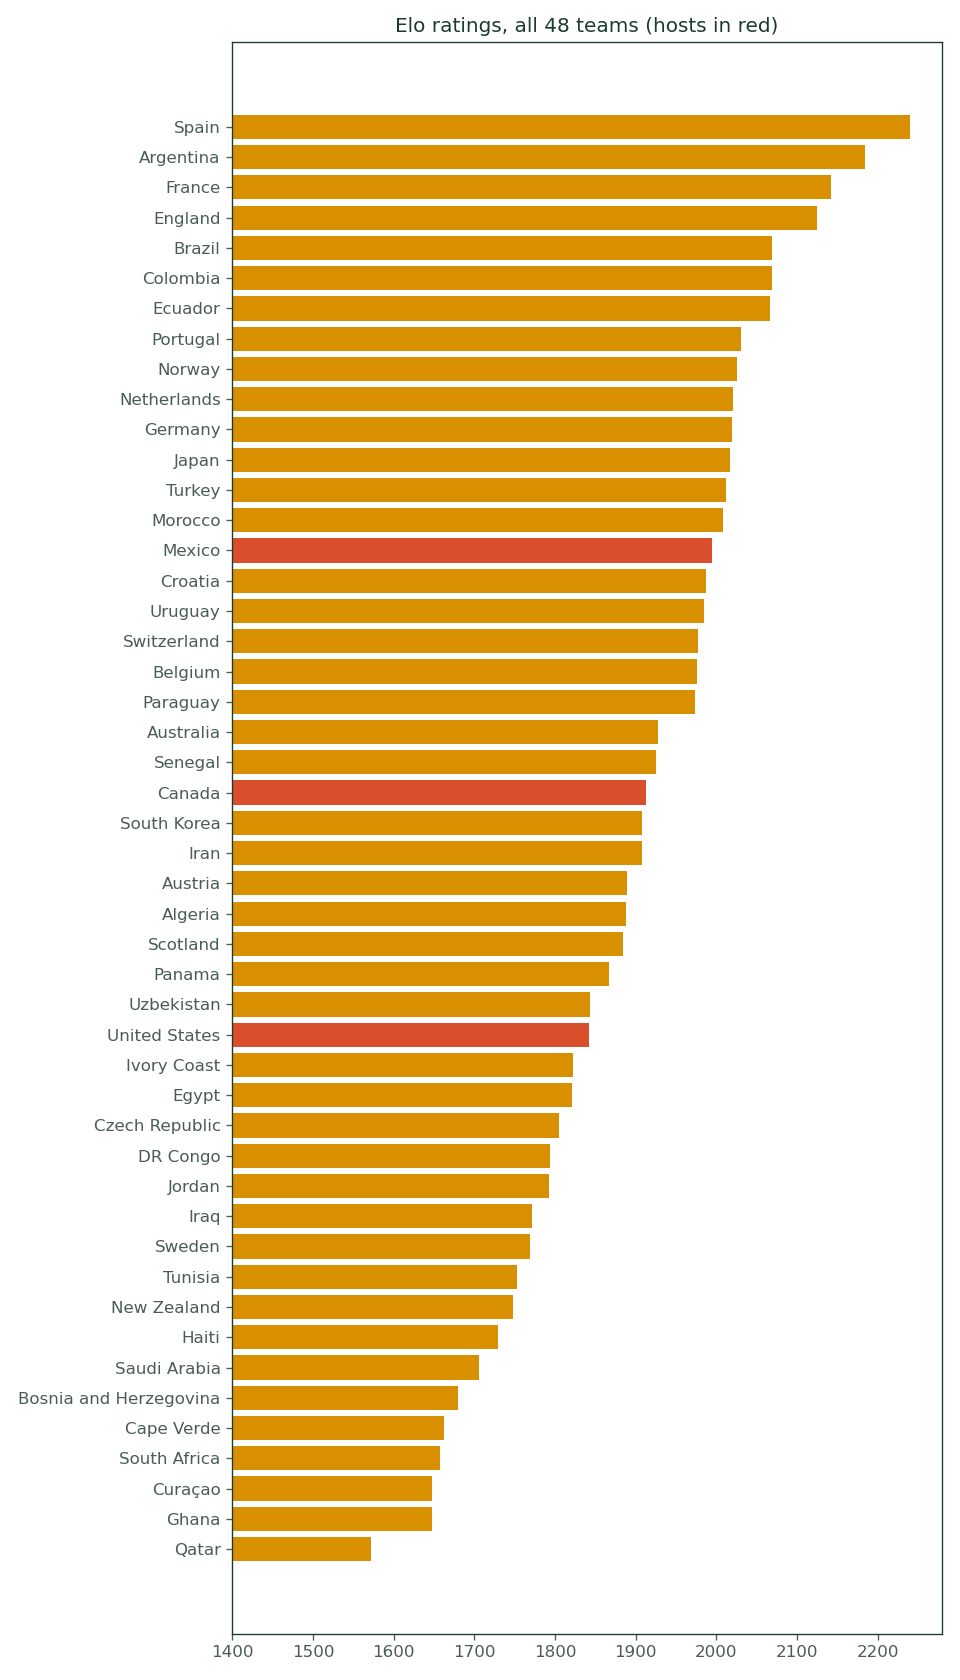
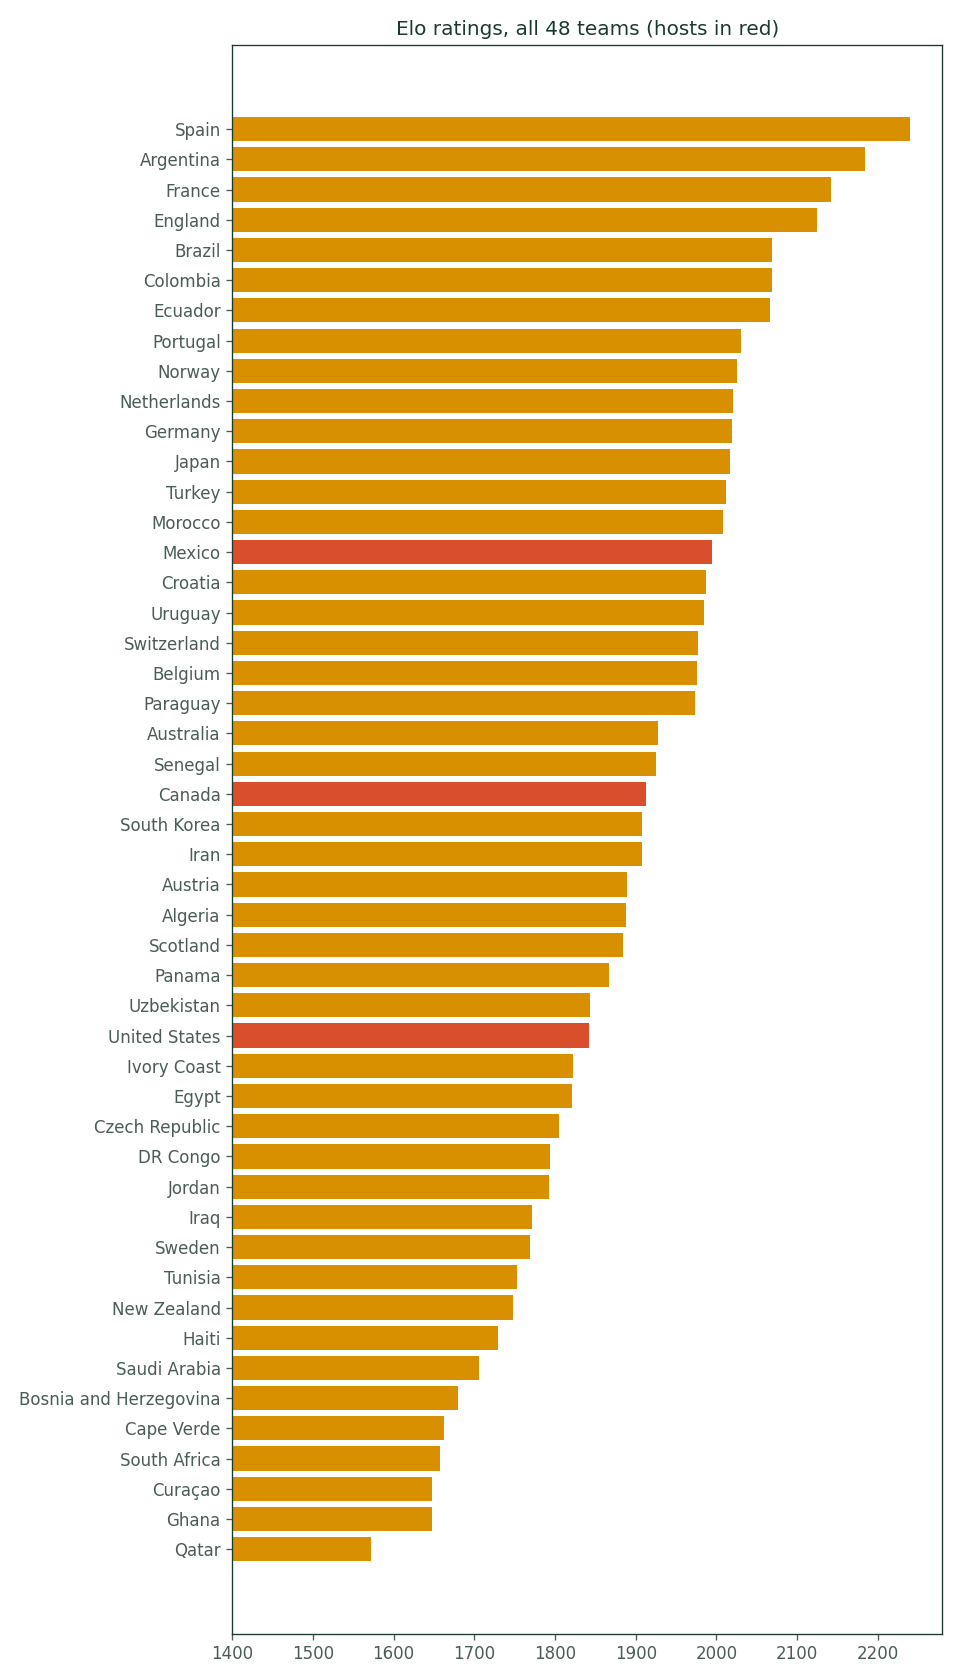
Add files via upload

diff --git a/index.html b/index.html
@@ -72,6 +72,8 @@ summary{cursor:pointer;font-weight:700;font-size:13px;color:var(--green)}
 summary:hover{color:var(--goldD)}
 details table{margin-top:10px}
 table{border-collapse:collapse;width:100%;font-size:13px}
+#sched{font-size:12px}
+#sched th{position:sticky;top:0;background:var(--bg);z-index:2;box-shadow:0 1px 0 var(--line)}
 th,td{padding:7px 10px;text-align:left;border-bottom:1px solid var(--line)}
 th{color:var(--mut);font-size:10.5px;letter-spacing:.09em;text-transform:uppercase;font-weight:700}
 tr:nth-child(even) td{background:#FAFBF8}
@@ -111,10 +113,10 @@ img.fig{max-width:100%;border-radius:12px;border:1px solid var(--line);margin:10
 <header><div class="wrap"><div class="kick">UB Analytics · est. 2014 · back for the 48-team era</div><h1>World Cup <span class="y">2026</span>, one matchday at a time.</h1>
 <p class="sub">One matchday at a time, the reasoning one click deep, every verdict on the record. <a href='legacy.html' style='color:var(--gold)'>Our third World Cup since 2014.</a></p>
 <nav><a href="index.html">Matchday</a><a href="schedule.html">Schedule</a><a href="methods.html">Under the hood</a><a href="legacy.html">Since 2014</a><a href="leaderboard.html">Leaderboard</a><a href="about.html">About us</a><a href="index.html#subscribe">Subscribe</a></nav>
-</div></header><main class="wrap"><div class="chips"><span class="chip"><b>4/9</b>picks correct</span><span class="chip"><b>0.638</b>running Brier</span><span class="chip"><b>-4%</b><abbr title="Brier Skill Score: improvement over a naive forecaster that always predicts historical base rates (49/23/28). Positive = the model adds real information.">skill vs naive</abbr></span><span class="chip"><b>13/16</b>2014 knockouts</span></div>
+</div></header><main class="wrap"><div class="chips"><span class="chip"><b>4/10</b>picks correct</span><span class="chip"><b>0.651</b>running Brier</span><span class="chip"><b>-1%</b><abbr title="Brier Skill Score: improvement over a naive forecaster that always predicts historical base rates (49/23/28). Positive = the model adds real information.">skill vs naive</abbr></span><span class="chip"><b>13/16</b>2014 knockouts</span></div>
 <h2>Matchday: 2026-06-14</h2>
-<p class="note">Predictions lock before kickoff. Last build: 2026-06-14 22:34 UTC.</p>
-<div class="card"><div class="meta"><span class="tag g">Group E</span><span class="tag">2026-06-14</span><span class="tag">Houston, United States</span></div><div class="duel"><div class="teams"><img class="flag" src="https://flagcdn.com/w28/de.png" srcset="https://flagcdn.com/w56/de.png 2x" width="28" alt="" loading="lazy">Germany<span class="vs">vs</span><img class="flag" src="https://flagcdn.com/w28/cw.png" srcset="https://flagcdn.com/w56/cw.png 2x" width="28" alt="" loading="lazy">Curaçao</div><div class="bignum"><b>76%</b><span>Germany by 2</span></div></div><div class="pa"><div><div class="lbl">Predicted</div><div class="val">Germany by 2</div><div class="det">confidence 76%</div></div><div class="arrow">→</div><div><div class="lbl">Actual</div><div class="val">Germany by 6</div><div class="det">7–1</div><span class="badge hit">CORRECT · Brier 0.09</span></div></div><div class="crowd"><div class="csig market"><span class="ctag">Betting market</span><b>Germany</b> at 69%<div class="cprobs">Germany 69% / draw 19% / Curaçao 12%</div><div class="cres hit">✔ Brier 0.14 (model 0.09)</div></div><div class="csig reddit"><span class="ctag">Reddit crowd</span><b>Germany</b> at 72%<div class="cprobs">Germany 72% / draw 16% / Curaçao 12%</div><div class="cres hit">✔ Brier 0.12 (model 0.09)</div></div><div class="csig reddit_positive"><span class="ctag">Reddit positive ↑</span><b>Germany</b> at 82%<div class="cprobs">Germany 82% / draw 9% / Curaçao 9%</div><div class="cres hit">✔ Brier 0.05 (model 0.09)</div></div><div class="csig reddit_negative"><span class="ctag">Reddit negative ↓</span><b>Germany</b> at 68%<div class="cprobs">Germany 68% / draw 15% / Curaçao 18%</div><div class="cres hit">✔ Brier 0.16 (model 0.09)</div></div></div><div class="bar"><i style="width:75.8%;background:var(--gold)"></i><i style="width:17.1%;background:var(--sage)"></i><i style="width:7.1%;background:var(--red)"></i></div><div class="legend"><img class="flag" src="https://flagcdn.com/w24/de.png" srcset="https://flagcdn.com/w48/de.png 2x" width="24" alt="" loading="lazy"> <b>Germany</b> 76% · draw 17% · <img class="flag" src="https://flagcdn.com/w24/cw.png" srcset="https://flagcdn.com/w48/cw.png 2x" width="24" alt="" loading="lazy"> <b>Curaçao</b> 7%</div><details><summary>How the model got here</summary><table>
+<p class="note">Predictions lock before kickoff. Last build: 2026-06-14 22:59 UTC.</p>
+<div class="card"><div class="meta"><span class="tag g">Group E</span><span class="tag">2026-06-14</span><span class="tag">Houston, United States</span></div><div class="duel"><div class="teams"><img class="flag" src="https://flagcdn.com/w28/de.png" srcset="https://flagcdn.com/w56/de.png 2x" width="28" alt="" loading="lazy">Germany<span class="vs">vs</span><img class="flag" src="https://flagcdn.com/w28/cw.png" srcset="https://flagcdn.com/w56/cw.png 2x" width="28" alt="" loading="lazy">Curaçao</div><div class="bignum"><b>76%</b><span>Germany by 2</span></div></div><div style="font-size:10px;font-weight:700;letter-spacing:.1em;text-transform:uppercase;color:var(--green);margin-top:6px">Champion model prediction</div><div class="pa"><div><div class="lbl">Predicted</div><div class="val">Germany by 2</div><div class="det">confidence 76%</div></div><div class="arrow">→</div><div><div class="lbl">Actual</div><div class="val">Germany by 6</div><div class="det">7–1</div><span class="badge hit">CORRECT · Brier 0.09</span></div></div><div class="crowd"><div class="csig market"><span class="ctag">LSS (Ujjal)</span><b>Germany by 3</b><div class="cprobs">Germany 92% / draw 6% / Curaçao 2%</div><div class="cres hit">✔ Brier 0.01</div></div><div class="csig market"><span class="ctag">Market</span><b>Germany by 1</b><div class="cprobs">Germany 69% / draw 19% / Curaçao 12%</div><div class="cres hit">✔ Brier 0.14</div></div><div class="csig reddit"><span class="ctag">Reddit crowd</span><b>Germany by 1</b><div class="cprobs">Germany 72% / draw 16% / Curaçao 12%</div><div class="cres hit">✔ Brier 0.12</div></div></div><div class="bar"><i style="width:75.8%;background:var(--gold)"></i><i style="width:17.1%;background:var(--sage)"></i><i style="width:7.1%;background:var(--red)"></i></div><div class="legend"><img class="flag" src="https://flagcdn.com/w24/de.png" srcset="https://flagcdn.com/w48/de.png 2x" width="24" alt="" loading="lazy"> <b>Germany</b> 76% · draw 17% · <img class="flag" src="https://flagcdn.com/w24/cw.png" srcset="https://flagcdn.com/w48/cw.png 2x" width="24" alt="" loading="lazy"> <b>Curaçao</b> 7%</div><details><summary>How the model got here</summary><table>
 <tr><th></th>
 <th class="num"><abbr title="Strength rating updated after every match since 1872. Beating a stronger side gains more points; the world average is ~1500 and elite teams sit above 2000. Hosts get +100 for true home games.">Elo</abbr></th>
 <th class="num"><abbr title="Attack rate: average goals SCORED per game over the team's last 25 internationals.">Attack</abbr></th>
@@ -138,7 +140,7 @@ EloDiff +372, AttDiff +0.44, DefDiff +0.04, FormDiff +1.50, HomeFlag 0.</p><p cl
 </table>
 <p class="note" style="margin:8px 0 0">Step 3, goal difference: the Poisson model expects 2.3 vs 0.6 goals,
 so the predicted margin is 2.3 − 0.6 ≈ 2.
-Weights come from each model's Brier score on 2,535 held-out internationals (2024–26); details <a href="methods.html">under the hood</a>.</p></details></div><div class="card"><div class="meta"><span class="tag g">Group E</span><span class="tag">2026-06-14</span><span class="tag">Philadelphia, United States</span></div><div class="duel"><div class="teams"><img class="flag" src="https://flagcdn.com/w28/ci.png" srcset="https://flagcdn.com/w56/ci.png 2x" width="28" alt="" loading="lazy">Ivory Coast<span class="vs">vs</span><img class="flag" src="https://flagcdn.com/w28/ec.png" srcset="https://flagcdn.com/w56/ec.png 2x" width="28" alt="" loading="lazy">Ecuador</div><div class="bignum"><b>61%</b><span>Ecuador by 1</span></div></div><div class="pa"><div><div class="lbl">Predicted</div><div class="val">Ecuador by 1</div><div class="det">confidence 61%</div></div><div class="arrow">→</div><div><div class="lbl">Actual</div><div class="pend">awaiting kickoff</div></div></div><div class="crowd"><div class="csig reddit"><span class="ctag">Reddit crowd</span><b>Ivory Coast</b> at 34%<div class="cprobs">Ivory Coast 34% / draw 33% / Ecuador 33%</div></div><div class="csig reddit_positive"><span class="ctag">Reddit positive ↑</span><b>Ivory Coast</b> at 34%<div class="cprobs">Ivory Coast 34% / draw 33% / Ecuador 33%</div></div><div class="csig reddit_negative"><span class="ctag">Reddit negative ↓</span><b>Ivory Coast</b> at 34%<div class="cprobs">Ivory Coast 34% / draw 33% / Ecuador 33%</div></div><div class="csig market"><span class="ctag">Betting market</span><b>Ecuador</b> at 39%<div class="cprobs">Ivory Coast 28% / draw 33% / Ecuador 39%</div></div></div><div class="bar"><i style="width:16.0%;background:var(--gold)"></i><i style="width:23.4%;background:var(--sage)"></i><i style="width:60.6%;background:var(--red)"></i></div><div class="legend"><img class="flag" src="https://flagcdn.com/w24/ci.png" srcset="https://flagcdn.com/w48/ci.png 2x" width="24" alt="" loading="lazy"> <b>Ivory Coast</b> 16% · draw 23% · <img class="flag" src="https://flagcdn.com/w24/ec.png" srcset="https://flagcdn.com/w48/ec.png 2x" width="24" alt="" loading="lazy"> <b>Ecuador</b> 61%</div><details><summary>How the model got here</summary><table>
+Weights come from each model's Brier score on 2,535 held-out internationals (2024–26); details <a href="methods.html">under the hood</a>.</p></details></div><div class="card"><div class="meta"><span class="tag g">Group E</span><span class="tag">2026-06-14</span><span class="tag">Philadelphia, United States</span></div><div class="duel"><div class="teams"><img class="flag" src="https://flagcdn.com/w28/ci.png" srcset="https://flagcdn.com/w56/ci.png 2x" width="28" alt="" loading="lazy">Ivory Coast<span class="vs">vs</span><img class="flag" src="https://flagcdn.com/w28/ec.png" srcset="https://flagcdn.com/w56/ec.png 2x" width="28" alt="" loading="lazy">Ecuador</div><div class="bignum"><b>61%</b><span>Ecuador by 1</span></div></div><div style="font-size:10px;font-weight:700;letter-spacing:.1em;text-transform:uppercase;color:var(--green);margin-top:6px">Champion model prediction</div><div class="pa"><div><div class="lbl">Predicted</div><div class="val">Ecuador by 1</div><div class="det">confidence 61%</div></div><div class="arrow">→</div><div><div class="lbl">Actual</div><div class="pend">awaiting kickoff</div></div></div><div class="crowd"><div class="csig market"><span class="ctag">LSS (Ujjal)</span><b>Ecuador by 1</b><div class="cprobs">Ivory Coast 22% / draw 37% / Ecuador 41%</div></div><div class="csig market"><span class="ctag">Market</span><b>Ecuador by 1</b><div class="cprobs">Ivory Coast 15% / draw 23% / Ecuador 62%</div></div><div class="csig reddit"><span class="ctag">Reddit crowd</span><b>Ecuador by 1</b><div class="cprobs">Ivory Coast 22% / draw 20% / Ecuador 58%</div></div></div><div class="bar"><i style="width:16.0%;background:var(--gold)"></i><i style="width:23.4%;background:var(--sage)"></i><i style="width:60.6%;background:var(--red)"></i></div><div class="legend"><img class="flag" src="https://flagcdn.com/w24/ci.png" srcset="https://flagcdn.com/w48/ci.png 2x" width="24" alt="" loading="lazy"> <b>Ivory Coast</b> 16% · draw 23% · <img class="flag" src="https://flagcdn.com/w24/ec.png" srcset="https://flagcdn.com/w48/ec.png 2x" width="24" alt="" loading="lazy"> <b>Ecuador</b> 61%</div><details><summary>How the model got here</summary><table>
 <tr><th></th>
 <th class="num"><abbr title="Strength rating updated after every match since 1872. Beating a stronger side gains more points; the world average is ~1500 and elite teams sit above 2000. Hosts get +100 for true home games.">Elo</abbr></th>
 <th class="num"><abbr title="Attack rate: average goals SCORED per game over the team's last 25 internationals.">Attack</abbr></th>
@@ -162,7 +164,7 @@ EloDiff -245, AttDiff +0.68, DefDiff +0.00, FormDiff +0.40, HomeFlag 0.</p><p cl
 </table>
 <p class="note" style="margin:8px 0 0">Step 3, goal difference: the Poisson model expects 0.8 vs 1.8 goals,
 so the predicted margin is 0.8 − 1.8 ≈ 1.
-Weights come from each model's Brier score on 2,535 held-out internationals (2024–26); details <a href="methods.html">under the hood</a>.</p></details></div><div class="card"><div class="meta"><span class="tag g">Group F</span><span class="tag">2026-06-14</span><span class="tag">Arlington, United States</span></div><div class="duel"><div class="teams"><img class="flag" src="https://flagcdn.com/w28/nl.png" srcset="https://flagcdn.com/w56/nl.png 2x" width="28" alt="" loading="lazy">Netherlands<span class="vs">vs</span><img class="flag" src="https://flagcdn.com/w28/jp.png" srcset="https://flagcdn.com/w56/jp.png 2x" width="28" alt="" loading="lazy">Japan</div><div class="bignum"><b>36%</b><span>Japan by 1</span></div></div><div class="pa"><div><div class="lbl">Predicted</div><div class="val">Japan by 1</div><div class="det">confidence 36%</div></div><div class="arrow">→</div><div><div class="lbl">Actual</div><div class="pend">awaiting kickoff</div></div></div><div class="crowd"><div class="csig market"><span class="ctag">Betting market</span><b>Japan</b> at 36%<div class="cprobs">Netherlands 34% / draw 29% / Japan 36%</div></div><div class="csig reddit"><span class="ctag">Reddit crowd</span><b>Netherlands</b> at 34%<div class="cprobs">Netherlands 34% / draw 33% / Japan 33%</div></div><div class="csig reddit_positive"><span class="ctag">Reddit positive ↑</span><b>Netherlands</b> at 34%<div class="cprobs">Netherlands 34% / draw 33% / Japan 33%</div></div><div class="csig reddit_negative"><span class="ctag">Reddit negative ↓</span><b>Netherlands</b> at 34%<div class="cprobs">Netherlands 34% / draw 33% / Japan 33%</div></div></div><div class="bar"><i style="width:34.8%;background:var(--gold)"></i><i style="width:28.8%;background:var(--sage)"></i><i style="width:36.4%;background:var(--red)"></i></div><div class="legend"><img class="flag" src="https://flagcdn.com/w24/nl.png" srcset="https://flagcdn.com/w48/nl.png 2x" width="24" alt="" loading="lazy"> <b>Netherlands</b> 35% · draw 29% · <img class="flag" src="https://flagcdn.com/w24/jp.png" srcset="https://flagcdn.com/w48/jp.png 2x" width="24" alt="" loading="lazy"> <b>Japan</b> 36%</div><details><summary>How the model got here</summary><table>
+Weights come from each model's Brier score on 2,535 held-out internationals (2024–26); details <a href="methods.html">under the hood</a>.</p></details></div><div class="card"><div class="meta"><span class="tag g">Group F</span><span class="tag">2026-06-14</span><span class="tag">Arlington, United States</span></div><div class="duel"><div class="teams"><img class="flag" src="https://flagcdn.com/w28/nl.png" srcset="https://flagcdn.com/w56/nl.png 2x" width="28" alt="" loading="lazy">Netherlands<span class="vs">vs</span><img class="flag" src="https://flagcdn.com/w28/jp.png" srcset="https://flagcdn.com/w56/jp.png 2x" width="28" alt="" loading="lazy">Japan</div><div class="bignum"><b>36%</b><span>Japan by 1</span></div></div><div style="font-size:10px;font-weight:700;letter-spacing:.1em;text-transform:uppercase;color:var(--green);margin-top:6px">Champion model prediction</div><div class="pa"><div><div class="lbl">Predicted</div><div class="val">Japan by 1</div><div class="det">confidence 36%</div></div><div class="arrow">→</div><div><div class="lbl">Actual</div><div class="val">Draw</div><div class="det">2–2</div><span class="badge miss">MISSED · Brier 0.76</span></div></div><div class="crowd"><div class="csig market"><span class="ctag">LSS (Ujjal)</span><b>Japan by 1</b><div class="cprobs">Netherlands 26% / draw 24% / Japan 51%</div><div class="cres miss">✘ Brier 0.91</div></div><div class="csig market"><span class="ctag">Market</span><b>Japan by 1</b><div class="cprobs">Netherlands 34% / draw 29% / Japan 36%</div><div class="cres miss">✘ Brier 0.75</div></div><div class="csig reddit"><span class="ctag">Reddit crowd</span><b>Japan by 1</b><div class="cprobs">Netherlands 33% / draw 27% / Japan 40%</div><div class="cres miss">✘ Brier 0.81</div></div></div><div class="bar"><i style="width:34.8%;background:var(--gold)"></i><i style="width:28.8%;background:var(--sage)"></i><i style="width:36.4%;background:var(--red)"></i></div><div class="legend"><img class="flag" src="https://flagcdn.com/w24/nl.png" srcset="https://flagcdn.com/w48/nl.png 2x" width="24" alt="" loading="lazy"> <b>Netherlands</b> 35% · draw 29% · <img class="flag" src="https://flagcdn.com/w24/jp.png" srcset="https://flagcdn.com/w48/jp.png 2x" width="24" alt="" loading="lazy"> <b>Japan</b> 36%</div><details><summary>How the model got here</summary><table>
 <tr><th></th>
 <th class="num"><abbr title="Strength rating updated after every match since 1872. Beating a stronger side gains more points; the world average is ~1500 and elite teams sit above 2000. Hosts get +100 for true home games.">Elo</abbr></th>
 <th class="num"><abbr title="Attack rate: average goals SCORED per game over the team's last 25 internationals.">Attack</abbr></th>
@@ -186,7 +188,7 @@ EloDiff +4, AttDiff -0.12, DefDiff -0.52, FormDiff +0.10, HomeFlag 0.</p><p clas
 </table>
 <p class="note" style="margin:8px 0 0">Step 3, goal difference: the Poisson model expects 1.2 vs 1.2 goals,
 so the predicted margin is 1.2 − 1.2 ≈ level.
-Weights come from each model's Brier score on 2,535 held-out internationals (2024–26); details <a href="methods.html">under the hood</a>.</p></details></div><div class="card"><div class="meta"><span class="tag g">Group F</span><span class="tag">2026-06-14</span><span class="tag">Guadalupe, Mexico</span></div><div class="duel"><div class="teams"><img class="flag" src="https://flagcdn.com/w28/se.png" srcset="https://flagcdn.com/w56/se.png 2x" width="28" alt="" loading="lazy">Sweden<span class="vs">vs</span><img class="flag" src="https://flagcdn.com/w28/tn.png" srcset="https://flagcdn.com/w56/tn.png 2x" width="28" alt="" loading="lazy">Tunisia</div><div class="bignum"><b>36%</b><span>Sweden by 1</span></div></div><div class="pa"><div><div class="lbl">Predicted</div><div class="val">Sweden by 1</div><div class="det">confidence 36%</div></div><div class="arrow">→</div><div><div class="lbl">Actual</div><div class="pend">awaiting kickoff</div></div></div><div class="crowd"><div class="csig reddit"><span class="ctag">Reddit crowd</span><b>Sweden</b> at 34%<div class="cprobs">Sweden 34% / draw 33% / Tunisia 33%</div></div><div class="csig reddit_positive"><span class="ctag">Reddit positive ↑</span><b>Sweden</b> at 34%<div class="cprobs">Sweden 34% / draw 33% / Tunisia 33%</div></div><div class="csig reddit_negative"><span class="ctag">Reddit negative ↓</span><b>Sweden</b> at 34%<div class="cprobs">Sweden 34% / draw 33% / Tunisia 33%</div></div><div class="csig market"><span class="ctag">Betting market</span><b>Sweden</b> at 50%<div class="cprobs">Sweden 50% / draw 28% / Tunisia 21%</div></div></div><div class="bar"><i style="width:35.8%;background:var(--gold)"></i><i style="width:28.5%;background:var(--sage)"></i><i style="width:35.7%;background:var(--red)"></i></div><div class="legend"><img class="flag" src="https://flagcdn.com/w24/se.png" srcset="https://flagcdn.com/w48/se.png 2x" width="24" alt="" loading="lazy"> <b>Sweden</b> 36% · draw 28% · <img class="flag" src="https://flagcdn.com/w24/tn.png" srcset="https://flagcdn.com/w48/tn.png 2x" width="24" alt="" loading="lazy"> <b>Tunisia</b> 36%</div><details><summary>How the model got here</summary><table>
+Weights come from each model's Brier score on 2,535 held-out internationals (2024–26); details <a href="methods.html">under the hood</a>.</p></details></div><div class="card"><div class="meta"><span class="tag g">Group F</span><span class="tag">2026-06-14</span><span class="tag">Guadalupe, Mexico</span></div><div class="duel"><div class="teams"><img class="flag" src="https://flagcdn.com/w28/se.png" srcset="https://flagcdn.com/w56/se.png 2x" width="28" alt="" loading="lazy">Sweden<span class="vs">vs</span><img class="flag" src="https://flagcdn.com/w28/tn.png" srcset="https://flagcdn.com/w56/tn.png 2x" width="28" alt="" loading="lazy">Tunisia</div><div class="bignum"><b>36%</b><span>Sweden by 1</span></div></div><div style="font-size:10px;font-weight:700;letter-spacing:.1em;text-transform:uppercase;color:var(--green);margin-top:6px">Champion model prediction</div><div class="pa"><div><div class="lbl">Predicted</div><div class="val">Sweden by 1</div><div class="det">confidence 36%</div></div><div class="arrow">→</div><div><div class="lbl">Actual</div><div class="pend">awaiting kickoff</div></div></div><div class="crowd"><div class="csig market"><span class="ctag">LSS (Ujjal)</span><b>Sweden by 1</b><div class="cprobs">Sweden 40% / draw 26% / Tunisia 34%</div></div><div class="csig market"><span class="ctag">Market</span><b>Tunisia by 1</b><div class="cprobs">Sweden 36% / draw 27% / Tunisia 37%</div></div><div class="csig reddit"><span class="ctag">Reddit crowd</span><b>Tunisia by 1</b><div class="cprobs">Sweden 32% / draw 24% / Tunisia 43%</div></div></div><div class="bar"><i style="width:35.8%;background:var(--gold)"></i><i style="width:28.5%;background:var(--sage)"></i><i style="width:35.7%;background:var(--red)"></i></div><div class="legend"><img class="flag" src="https://flagcdn.com/w24/se.png" srcset="https://flagcdn.com/w48/se.png 2x" width="24" alt="" loading="lazy"> <b>Sweden</b> 36% · draw 28% · <img class="flag" src="https://flagcdn.com/w24/tn.png" srcset="https://flagcdn.com/w48/tn.png 2x" width="24" alt="" loading="lazy"> <b>Tunisia</b> 36%</div><details><summary>How the model got here</summary><table>
 <tr><th></th>
 <th class="num"><abbr title="Strength rating updated after every match since 1872. Beating a stronger side gains more points; the world average is ~1500 and elite teams sit above 2000. Hosts get +100 for true home games.">Elo</abbr></th>
 <th class="num"><abbr title="Attack rate: average goals SCORED per game over the team's last 25 internationals.">Attack</abbr></th>
@@ -212,7 +214,7 @@ EloDiff +17, AttDiff +0.36, DefDiff -0.60, FormDiff -0.60, HomeFlag 0.</p><p cla
 so the predicted margin is 1.2 − 1.3 ≈ level.
 Weights come from each model's Brier score on 2,535 held-out internationals (2024–26); details <a href="methods.html">under the hood</a>.</p></details></div>
 <h2>Latest verdicts</h2>
-<div class="verdict hit"><div class="mark">✔ correct · 2026-06-14 · Group E</div><div class="pv">Predicted outcome: <b>Germany wins</b> with goal difference of 2. Confidence score 0.76 (max 1).</div><div class="av">Actual outcome: Germany won by goal difference of 6 (7–1). Brier 0.09.</div></div><div class="verdict miss"><div class="mark">✘ missed · 2026-06-13 · Group B</div><div class="pv">Predicted outcome: <b>Switzerland wins</b> with goal difference of 2. Confidence score 0.79 (max 1).</div><div class="av">Actual outcome: Match drawn (1–1). Brier 1.36.</div></div><div class="verdict miss"><div class="mark">✘ missed · 2026-06-13 · Group C</div><div class="pv">Predicted outcome: <b>Brazil wins</b> with goal difference of 1. Confidence score 0.42 (max 1).</div><div class="av">Actual outcome: Match drawn (1–1). Brier 0.76.</div></div><div class="verdict hit"><div class="mark">✔ correct · 2026-06-13 · Group C</div><div class="pv">Predicted outcome: <b>Scotland wins</b> with goal difference of 1. Confidence score 0.51 (max 1).</div><div class="av">Actual outcome: Scotland won by goal difference of 1 (0–1). Brier 0.36.</div></div><div class="verdict miss"><div class="mark">✘ missed · 2026-06-13 · Group D</div><div class="pv">Predicted outcome: <b>Turkey wins</b> with goal difference of 1. Confidence score 0.39 (max 1).</div><div class="av">Actual outcome: Australia won by goal difference of 2 (2–0). Brier 0.70.</div></div><div class="verdict miss"><div class="mark">✘ missed · 2026-06-12 · Group B</div><div class="pv">Predicted outcome: <b>Canada wins</b> with goal difference of 2. Confidence score 0.75 (max 1).</div><div class="av">Actual outcome: Match drawn (1–1). Brier 1.26.</div></div>
+<div class="verdict miss"><div class="mark">✘ missed · 2026-06-14 · Group F</div><div class="pv">Predicted outcome: <b>Japan wins</b> with goal difference of 1. Confidence score 0.36 (max 1).</div><div class="av">Actual outcome: Match drawn (2–2). Brier 0.76.</div></div><div class="verdict hit"><div class="mark">✔ correct · 2026-06-14 · Group E</div><div class="pv">Predicted outcome: <b>Germany wins</b> with goal difference of 2. Confidence score 0.76 (max 1).</div><div class="av">Actual outcome: Germany won by goal difference of 6 (7–1). Brier 0.09.</div></div><div class="verdict miss"><div class="mark">✘ missed · 2026-06-13 · Group B</div><div class="pv">Predicted outcome: <b>Switzerland wins</b> with goal difference of 2. Confidence score 0.79 (max 1).</div><div class="av">Actual outcome: Match drawn (1–1). Brier 1.36.</div></div><div class="verdict miss"><div class="mark">✘ missed · 2026-06-13 · Group C</div><div class="pv">Predicted outcome: <b>Brazil wins</b> with goal difference of 1. Confidence score 0.42 (max 1).</div><div class="av">Actual outcome: Match drawn (1–1). Brier 0.76.</div></div><div class="verdict hit"><div class="mark">✔ correct · 2026-06-13 · Group C</div><div class="pv">Predicted outcome: <b>Scotland wins</b> with goal difference of 1. Confidence score 0.51 (max 1).</div><div class="av">Actual outcome: Scotland won by goal difference of 1 (0–1). Brier 0.36.</div></div><div class="verdict miss"><div class="mark">✘ missed · 2026-06-13 · Group D</div><div class="pv">Predicted outcome: <b>Turkey wins</b> with goal difference of 1. Confidence score 0.39 (max 1).</div><div class="av">Actual outcome: Australia won by goal difference of 2 (2–0). Brier 0.70.</div></div>
 <p class="note"><a href="schedule.html">Full 72-match outlook and complete scorecard →</a></p>
 <div class="sub-box" id="subscribe"><h2>Every matchday's predictions by email</h2>
 <p class="note">One email per matchday. Unsubscribe anytime.</p>

diff --git a/leaderboard.html b/leaderboard.html
@@ -72,6 +72,8 @@ summary{cursor:pointer;font-weight:700;font-size:13px;color:var(--green)}
 summary:hover{color:var(--goldD)}
 details table{margin-top:10px}
 table{border-collapse:collapse;width:100%;font-size:13px}
+#sched{font-size:12px}
+#sched th{position:sticky;top:0;background:var(--bg);z-index:2;box-shadow:0 1px 0 var(--line)}
 th,td{padding:7px 10px;text-align:left;border-bottom:1px solid var(--line)}
 th{color:var(--mut);font-size:10.5px;letter-spacing:.09em;text-transform:uppercase;font-weight:700}
 tr:nth-child(even) td{background:#FAFBF8}
@@ -117,10 +119,10 @@ img.fig{max-width:100%;border-radius:12px;border:1px solid var(--line);margin:10
 
 <div style="overflow-x:auto"><table>
 <tr><th>Model and method</th><th>Author</th><th class="num">Scored</th><th class="num">Accuracy</th><th class="num">Brier ↓</th><th class="num">Skill</th></tr>
-<tr style="background:#EAF3ED"><td><span style="font-size:10px;font-weight:700;letter-spacing:.08em;text-transform:uppercase;color:var(--green);">Champion</span><br><b>Elo + Poisson ensemble</b><br><span style="font-size:11px;color:var(--mut)">GLM, RF, Poisson scoreline on Elo-difference features</span></td><td>UB Analytics</td><td class="num">9/72</td><td class="num">44%</td><td class="num"><b>0.638</b></td><td class="num">-4%</td></tr><tr style="background:#F5F3E8"><td><span style="font-size:10px;font-weight:700;letter-spacing:.08em;text-transform:uppercase;color:var(--goldD);">Baseline</span><br><b>Naive base-rate forecaster</b><br><span style="font-size:11px;color:var(--mut)">Always predicts 48/23/29 (historical home/draw/away rates)</span></td><td>Benchmark</td><td class="num">9/72</td><td class="num">56%</td><td class="num"><b>0.616</b></td><td class="num">+0%</td></tr><tr style="background:transparent"><td><span style="font-size:10px;font-weight:700;letter-spacing:.08em;text-transform:uppercase;color:var(--mut);">Challenger</span><br><b>Reddit crowd (overall)</b><br><span style="font-size:11px;color:var(--mut)">Pre-match sentiment from r/soccer, r/worldcup; weighted mention counting</span></td><td>Crowd</td><td class="num">9/72</td><td class="num">44%</td><td class="num"><b>0.702</b></td><td class="num">-14%</td></tr><tr style="background:transparent"><td><span style="font-size:10px;font-weight:700;letter-spacing:.08em;text-transform:uppercase;color:var(--mut);">Challenger</span><br><b>Reddit positive sentiment</b><br><span style="font-size:11px;color:var(--mut)">Probability derived from praise, support, and optimistic mentions only; tests whether fan enthusiasm predicts outcomes</span></td><td>Crowd</td><td class="num">9/72</td><td class="num">44%</td><td class="num"><b>0.735</b></td><td class="num">-19%</td></tr><tr style="background:transparent"><td><span style="font-size:10px;font-weight:700;letter-spacing:.08em;text-transform:uppercase;color:var(--mut);">Challenger</span><br><b>Reddit negative sentiment</b><br><span style="font-size:11px;color:var(--mut)">Probability derived from criticism and doubt about the opponent; tests whether negative crowd opinion predicts outcomes better than positive</span></td><td>Crowd</td><td class="num">9/72</td><td class="num">44%</td><td class="num"><b>0.681</b></td><td class="num">-11%</td></tr><tr style="background:transparent"><td><span style="font-size:10px;font-weight:700;letter-spacing:.08em;text-transform:uppercase;color:var(--mut);">Challenger</span><br><b>Betting market consensus</b><br><span style="font-size:11px;color:var(--mut)">Bookmaker odds averaged across providers, overround removed; the academic standard benchmark</span></td><td>Crowd</td><td class="num">9/72</td><td class="num">44%</td><td class="num"><b>0.654</b></td><td class="num">-6%</td></tr><tr style="background:transparent"><td><span style="font-size:10px;font-weight:700;letter-spacing:.08em;text-transform:uppercase;color:var(--mut);">Challenger</span><br><b>Human intuition (B)</b><br><span style="font-size:11px;color:var(--mut)">Domain knowledge and match context, no statistical model</span></td><td>Bhupinder Juneja</td><td class="num">0/72</td><td class="num" colspan="3" style="color:var(--sage);font-style:italic">awaiting predictions</td></tr><tr style="background:transparent"><td><span style="font-size:10px;font-weight:700;letter-spacing:.08em;text-transform:uppercase;color:var(--mut);">Challenger</span><br><b>Latent State-Space v1</b><br><span style="font-size:11px;color:var(--mut)">Dynamic bivariate Poisson, Koopman-Lit (2015) framework</span></td><td>Ujjal Mukherjee</td><td class="num">9/72</td><td class="num">56%</td><td class="num"><b>0.682</b></td><td class="num">-11%</td></tr>
+<tr style="background:#EAF3ED"><td><span style="font-size:10px;font-weight:700;letter-spacing:.08em;text-transform:uppercase;color:var(--green);">Champion</span><br><b>Elo + Poisson ensemble</b><br><span style="font-size:11px;color:var(--mut)">GLM, RF, Poisson scoreline on Elo-difference features</span></td><td>UB Analytics</td><td class="num">10/72</td><td class="num">40%</td><td class="num"><b>0.651</b></td><td class="num">-1%</td></tr><tr style="background:#F5F3E8"><td><span style="font-size:10px;font-weight:700;letter-spacing:.08em;text-transform:uppercase;color:var(--goldD);">Baseline</span><br><b>Naive base-rate forecaster</b><br><span style="font-size:11px;color:var(--mut)">Always predicts 48/23/29 (historical home/draw/away rates)</span></td><td>Benchmark</td><td class="num">10/72</td><td class="num">50%</td><td class="num"><b>0.644</b></td><td class="num">+0%</td></tr><tr style="background:transparent"><td><span style="font-size:10px;font-weight:700;letter-spacing:.08em;text-transform:uppercase;color:var(--mut);">Challenger</span><br><b>Reddit crowd (overall)</b><br><span style="font-size:11px;color:var(--mut)">Pre-match sentiment from r/soccer, r/worldcup; weighted mention counting</span></td><td>Crowd</td><td class="num">10/72</td><td class="num">40%</td><td class="num"><b>0.713</b></td><td class="num">-11%</td></tr><tr style="background:transparent"><td><span style="font-size:10px;font-weight:700;letter-spacing:.08em;text-transform:uppercase;color:var(--mut);">Challenger</span><br><b>Reddit positive sentiment</b><br><span style="font-size:11px;color:var(--mut)">Probability derived from praise, support, and optimistic mentions only; tests whether fan enthusiasm predicts outcomes</span></td><td>Crowd</td><td class="num">10/72</td><td class="num">40%</td><td class="num"><b>0.765</b></td><td class="num">-19%</td></tr><tr style="background:transparent"><td><span style="font-size:10px;font-weight:700;letter-spacing:.08em;text-transform:uppercase;color:var(--mut);">Challenger</span><br><b>Reddit negative sentiment</b><br><span style="font-size:11px;color:var(--mut)">Probability derived from criticism and doubt about the opponent; tests whether negative crowd opinion predicts outcomes better than positive</span></td><td>Crowd</td><td class="num">10/72</td><td class="num">40%</td><td class="num"><b>0.696</b></td><td class="num">-8%</td></tr><tr style="background:transparent"><td><span style="font-size:10px;font-weight:700;letter-spacing:.08em;text-transform:uppercase;color:var(--mut);">Challenger</span><br><b>Betting market consensus</b><br><span style="font-size:11px;color:var(--mut)">Bookmaker odds averaged across providers, overround removed; the academic standard benchmark</span></td><td>Crowd</td><td class="num">10/72</td><td class="num">40%</td><td class="num"><b>0.663</b></td><td class="num">-3%</td></tr><tr style="background:transparent"><td><span style="font-size:10px;font-weight:700;letter-spacing:.08em;text-transform:uppercase;color:var(--mut);">Challenger</span><br><b>Human intuition (B)</b><br><span style="font-size:11px;color:var(--mut)">Domain knowledge and match context, no statistical model</span></td><td>Bhupinder Juneja</td><td class="num">0/72</td><td class="num" colspan="3" style="color:var(--sage);font-style:italic">awaiting predictions</td></tr><tr style="background:transparent"><td><span style="font-size:10px;font-weight:700;letter-spacing:.08em;text-transform:uppercase;color:var(--mut);">Challenger</span><br><b>Latent State-Space v1</b><br><span style="font-size:11px;color:var(--mut)">Dynamic bivariate Poisson, Koopman-Lit (2015) framework</span></td><td>Ujjal Mukherjee</td><td class="num">10/72</td><td class="num">50%</td><td class="num"><b>0.704</b></td><td class="num">-9%</td></tr>
 </table></div>
 
-<p class="note">Scored on 9 of 72 group matches. Brier is the primary metric (lower is better; 0 = clairvoyant, 0.667 = coin flip). Skill measures improvement over the naive base-rate forecaster (positive = the model adds real information). SE of Brier ≈ 0.13: models within ~0.05 of each other are statistically indistinguishable at this sample size. The leaderboard becomes evidence, not entertainment, only as N grows.</p>
+<p class="note">Scored on 10 of 72 group matches. Brier is the primary metric (lower is better; 0 = clairvoyant, 0.667 = coin flip). Skill measures improvement over the naive base-rate forecaster (positive = the model adds real information). SE of Brier ≈ 0.13: models within ~0.05 of each other are statistically indistinguishable at this sample size. The leaderboard becomes evidence, not entertainment, only as N grows.</p>
 
 <h2>The champion-challenger framework</h2>
 <p class="note">In production analytics, a <b>champion</b> is the model currently making decisions; a <b>challenger</b> is any candidate replacement that runs in parallel, scored on the same outcomes, but not yet trusted with decisions. The champion holds its position until a challenger demonstrates statistically significant improvement over a sustained evaluation window, not a lucky streak. This framework is standard practice in credit scoring (OCC Bulletin 2011-12), clinical trials (where it maps onto non-inferiority designs), and recommendation systems (A/B testing). Its core discipline: the challenger must beat the champion on the champion's turf, with the champion's metrics, over the champion's evaluation period. Selection bias (submitting only your best backtest) and survivorship bias (dropping challengers that start poorly) are the two threats the framework exists to prevent.</p>

diff --git a/about.html b/about.html
@@ -72,6 +72,8 @@ summary{cursor:pointer;font-weight:700;font-size:13px;color:var(--green)}
 summary:hover{color:var(--goldD)}
 details table{margin-top:10px}
 table{border-collapse:collapse;width:100%;font-size:13px}
+#sched{font-size:12px}
+#sched th{position:sticky;top:0;background:var(--bg);z-index:2;box-shadow:0 1px 0 var(--line)}
 th,td{padding:7px 10px;text-align:left;border-bottom:1px solid var(--line)}
 th{color:var(--mut);font-size:10.5px;letter-spacing:.09em;text-transform:uppercase;font-weight:700}
 tr:nth-child(even) td{background:#FAFBF8}

diff --git a/legacy.html b/legacy.html
@@ -72,6 +72,8 @@ summary{cursor:pointer;font-weight:700;font-size:13px;color:var(--green)}
 summary:hover{color:var(--goldD)}
 details table{margin-top:10px}
 table{border-collapse:collapse;width:100%;font-size:13px}
+#sched{font-size:12px}
+#sched th{position:sticky;top:0;background:var(--bg);z-index:2;box-shadow:0 1px 0 var(--line)}
 th,td{padding:7px 10px;text-align:left;border-bottom:1px solid var(--line)}
 th{color:var(--mut);font-size:10.5px;letter-spacing:.09em;text-transform:uppercase;font-weight:700}
 tr:nth-child(even) td{background:#FAFBF8}

diff --git a/methods.html b/methods.html
@@ -72,6 +72,8 @@ summary{cursor:pointer;font-weight:700;font-size:13px;color:var(--green)}
 summary:hover{color:var(--goldD)}
 details table{margin-top:10px}
 table{border-collapse:collapse;width:100%;font-size:13px}
+#sched{font-size:12px}
+#sched th{position:sticky;top:0;background:var(--bg);z-index:2;box-shadow:0 1px 0 var(--line)}
 th,td{padding:7px 10px;text-align:left;border-bottom:1px solid var(--line)}
 th{color:var(--mut);font-size:10.5px;letter-spacing:.09em;text-transform:uppercase;font-weight:700}
 tr:nth-child(even) td{background:#FAFBF8}